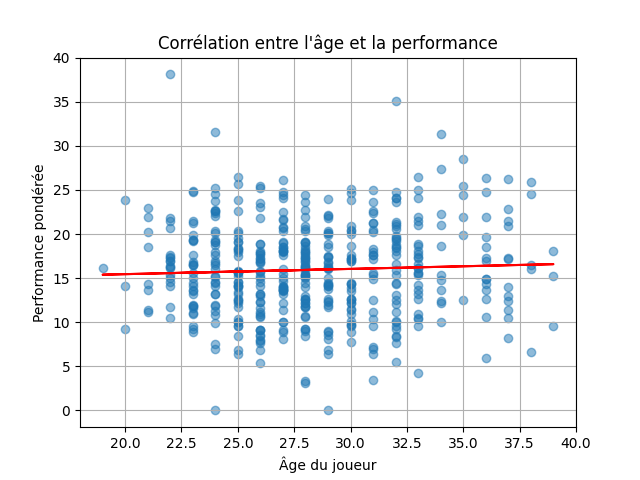
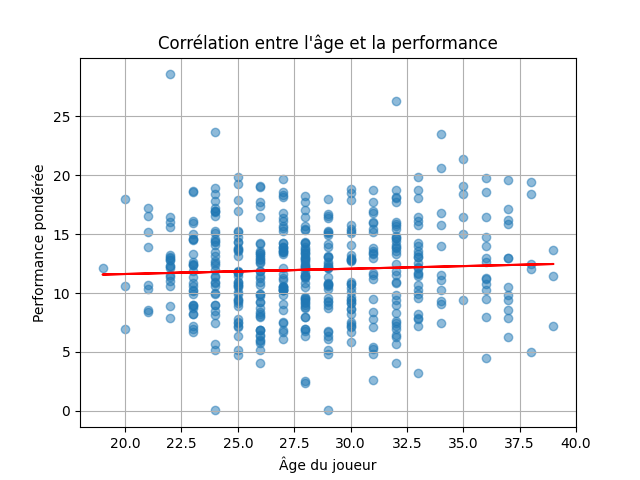
Add readme

diff --git a/TP_Project/project.py b/TP_Project/project.py
@@ -4,22 +4,20 @@ import matplotlib.pyplot as plt
 from pyspark.sql import SparkSession
 import seaborn as sns
 
-spark = SparkSession.builder.appName("lefooteuh").getOrCreate()
+spark = SparkSession.builder.appName("footballPerformanceAnalysis").getOrCreate()
 
 players_data = spark.read.csv("../data/2022-2023 Football Player Stats.csv", header=True, inferSchema=True, sep=";")
 
 
 # Question 1 : Qui sont les joueurs ayant marqué le plus de but ?
 def sort_byGoals():
-    print(players_data.printSchema())
     sorted_data = players_data.orderBy(desc("Goals"))
-    # Afficher les dix meilleurs joueurs
+    # Affichage des dix meilleurs joueurs
     top_players = sorted_data.select("Player", "Goals", "Squad", "Pos", "Nation").limit(10)
     top_players.show()
 
 
 # Question 2 : Qui est l'attaquant le plus efficace
-# Filtrer les attaquants ayant joué la moitié de la saison (environ 20 matchs == 20 * 90 = 1800 minutes)
 
 def sort_byBestFinisher(minimum_minute):
     filtered_data = players_data.filter((col("Pos").contains("FW") & (col("Min") > minimum_minute)))
@@ -27,13 +25,14 @@ def sort_byBestFinisher(minimum_minute):
         "Goals": 1,
         "SoT%": 0.8,
         "ShoPK": 0.3,
+        "Assists": 0.7
     }
 
     total_weight = sum(weights.values())
     # Normalisation
     normalized_weights = {stat: weight / total_weight for stat, weight in weights.items()}
 
-    # Calcule de la somme pondérée des statistiques pour chaque joueur
+    # Calcul de la somme pondérée des statistiques pour chaque joueur
     for stat, weight in normalized_weights.items():
         filtered_data = filtered_data.withColumn(f"Weighted_{stat}", col(stat) * weight)
 
@@ -41,10 +40,10 @@ def sort_byBestFinisher(minimum_minute):
     best_finisher_score = sum(col(f"Weighted_{stat}") for stat in normalized_weights.keys())
 
     # Ajout d'une colonne avec le score pondéré
-    result_data = filtered_data.withColumn("WeightedSum", best_finisher_score)
+    result_data = filtered_data.withColumn("AttackingPerformance", best_finisher_score)
 
     # Tri du DataFrame en fonction du score pondéré, du plus élevé au plus bas
-    return result_data.orderBy("WeightedSum", ascending=False)
+    return result_data.orderBy("AttackingPerformance", ascending=False)
 
 
 def getTopTenBestFinisher():
@@ -53,19 +52,19 @@ def getTopTenBestFinisher():
     top_players.show()
 
 
-# Question 3 : Est-ce que l'âge et le championnat affecte l'efficacité du buteur ?
+# Question 3 : Est-ce que l'âge et le championnat affecte l'efficacité d'un attaquant ?
 def ageCorrBestFinisher():
     sorted_result = sort_byBestFinisher(500)
     sorted_result = sorted_result.withColumn("playerAge", year(current_date()) - col("Born"))
-    pandas_df = sorted_result.select("playerAge", "WeightedSum").toPandas()
+    pandas_df = sorted_result.select("playerAge", "AttackingPerformance").toPandas()
     plt.figure()
-    plt.scatter(pandas_df["playerAge"], pandas_df["WeightedSum"], alpha=0.5)
+    plt.scatter(pandas_df["playerAge"], pandas_df["AttackingPerformance"], alpha=0.5)
     plt.title("Corrélation entre l'âge et la performance")
     plt.xlabel("Âge du joueur")
     plt.ylabel("Performance pondérée")
     plt.grid(True)
 
-    z = np.polyfit(pandas_df["playerAge"], pandas_df["WeightedSum"], 1)
+    z = np.polyfit(pandas_df["playerAge"], pandas_df["AttackingPerformance"], 1)
     p = np.poly1d(z)
     plt.plot(pandas_df["playerAge"], p(pandas_df["playerAge"]), color='red')
 
@@ -76,9 +75,9 @@ def competitionCorrBestFinisher():
     sorted_result = sort_byBestFinisher(500)
     plt.figure(figsize=(12, 6))  # Ajustez la taille selon vos préférences
 
-    sns.scatterplot(x='WeightedSum', y='Comp', data=sorted_result.toPandas(),
+    sns.scatterplot(x='AttackingPerformance', y='Comp', data=sorted_result.toPandas(),
                     palette='viridis')
-    sns.boxplot(x='WeightedSum', y='Comp', data=sorted_result.toPandas(), palette='Set2', width=0.5)
+    sns.boxplot(x='AttackingPerformance', y='Comp', data=sorted_result.toPandas(), palette='Set2', width=0.5)
     plt.title('Corrélation entre Performance et Championnat')
     plt.xlabel('Performance')
     plt.ylabel('Championnat')
@@ -90,9 +89,9 @@ print("Ces données sont basés sur la saison 2022-2023 mais ont l'air incomplè
 print("Question 1 : Quels sont les joueurs ayant marqué le plus de but")
 sort_byGoals()
 
-print("Question 2 : Qui sont les buteur les plus efficaces ?")
+print("Question 2 : Qui sont les attaquants les plus efficaces ?")
 getTopTenBestFinisher()
 
-print("Question 3 : Est ce que l'âge et le championnat affecte l'efficacité du buteur ?")
+print("Question 3 : Est ce que l'âge et le championnat affectent l'efficacité d'un attaquant ?")
 ageCorrBestFinisher()
 competitionCorrBestFinisher()

diff --git a/TP_Project/Readme.md b/TP_Project/Readme.md
@@ -1,0 +1,56 @@
+# DMB
+## TP Projet : analyse des statistiques des attaquants sur le début de saison 2022-2023
+
+Pour ce projet, nous nous sommes basé sur un jeu de donnée regroupant les statistiques des joueurs de football des 5 grands championnats Européen (Angleterre, Espagne, Allemagne, Italie et France) sur le début de saison 2022 - 2023. 
+
+[Lien vers le jeu de données](https://www.kaggle.com/datasets/vivovinco/20222023-football-player-stats/data)
+
+En utilisant ce jeu de données, nous allons répondre à 3 questions (facile, moyenne et difficile) sur les performances des attaquants.
+
+#### 1ère question : Qui est le meilleur buteur des 5 grands championnats ? (Question facile)
+
+Pour répondre à cette première question, nous avons du importer le fichier csv en utilisant spark. Nous trions ensuite la liste par ordre decroissant par rapport à la colonne Goals (nombre de but).
+On affiche ensuite le nom, le nombre de but marqué, le club, le poste et la nationalité des 10 premiers joueurs de la liste.
+
+Nous trouvons donc le résultat suivant : 
+
+![image](../Ressources/resultQ1.png)
+
+#### 2ème question : Qui est l'attaquant le plus efficace des 5 grands championnats ? (Question moyenne)
+
+La réponse à cette question est plus compliqué car il est plus dur de définir l'efficacité d'un attaquant. Est-ce celui qui marque le plus ? Ou alors celui qui marque un but dès qu'il tire ? 
+
+Pour répondre à la question, nous avons fusionné plusieurs statistiques pour créer un nouvel indice de performance.
+
+Plus précisément, on commence par filtrer les joueurs pour ne garder que les attaquants qui ont joué un certain nombre de minutes (ici 1200 minutes correspondant à plus de 13 matchs environs).
+On crée ensuite une map de poids correspondant aux différentes statistiques que nous allons utilisé. Cette map nous permettra de réduire l'importance de certaine statistique par rapport à d'autres.
+On choisit de retenir comme statistiques le nombre de but marqué, le nombre de passe décisive (passe amenant à un but marqué), le pourcentage de tir cadré et le nombre de pénalty marqué.
+
+On normalise donc les poids, puis on calcule une somme pondéré de la nouvelle statistique pour chaque joueur que nous appelons AttackingPerformance. Nous ajoutons ensuite cette colonne au jeu de données et nous affichons les dix meilleurs attaquants selon cette valeur : 
+![image](../Ressources/resultQ2.png)
+
+#### 3ème question : Est-ce que l'âge et le championnat affectent l'efficacité d'un attaquant ? (Question difficile)
+
+L'enjeu de cette question est cette fois ce savoir si l'âge et le championnat peuvent affecter l'efficacité d'un attaquant
+
+Pour répondre à cette question, nous devons reprendre l'indice calculé précédemment. Cependant on essaye d'être plus large sur le temps de jeu des joueurs comme nous n'avons pas besoin de chercher les meilleurs joueurs mais simplement de voir l'impact de l'âge et du championnat sur la performance.
+Nous changeons donc par paramètre le temps de jeu minimum à 500 minutes (un peu plus de 5 matchs).
+On commence ensuite par regarder l'impact de l'âge en traçant un graphique de la performance selon l'âge des joueurs. L'âge des joueurs est amené via un calcul par rapport à leur année de naissance. Le graphique est réalisé en transformant le jeu Spark en jeu Pandas puis en utilisant Matplotlib.
+
+On obtient donc le résultat suivant : 
+![image](../Ressources/CorrelationAgePerformance.png)
+
+On peut constater une légère hausse des performances au fil du temps, sûrement du à l'expérience des joueurs. Cependant, on peut également voir qu'il y a une grande diversité des valeurs parmis les résultats au fil des âges. 
+
+Pour la seconde partie de la question sur l'impact du championnat, on récupère de la même façon l'indice de performance en réduisant le montant de temps de jeu minimum à 500 minutes.
+On utilise cette fois un scatterplot de la bibliothèque Seaborn à partir des résultats transformé en valeur pandas pour afficher les données. On ajoute également une boîte à moustache pour pouvoir tirer plus de conclusion.
+
+![image](../Ressources/CorrelationPerformanceChampionnat.png)
+
+On peut constater plusieurs résultats intéressants : 
+La Ligue 1 (championnat français) possède des valeurs très distantes comme le montre la taille de la boîte à moustache très large, avec cependant une médiane assez basse. On a donc des attaquants très peu efficace avec malgré un tout un grand nombre d'attaquants performant (3ème quartile très éloigné).
+A l'inverse, la Bundesliga (championnat allemand) possède un niveau très homogène avec une boîte à moustache très resserrée et une médiane au milieu de la boîte à moustache.
+De plus, on peut voir qur la Premier League et la Liga (championnat anglais et espagnol) possède un niveau global assez proche avec une boîte à moustache de la même taille, avec une médiane un peu plus haute pour la Première League.
+Enfin, on peut voir que la Serie A (championnat italien) possède un niveau plus bas avec la boîte à moustache la plus basse. C'est également le seul championnat avec la Liga à ne pas avoir de joueur surperformant.
+
+On peut donc conclure que les championnats peuvent avoir une incidence sur le niveau de jeu des attaquants. On peut prendre l'exemple de la Serie A où les attaquants sont le moins performants, peut être à un jeu beaucoup plus défensif en Italie.
